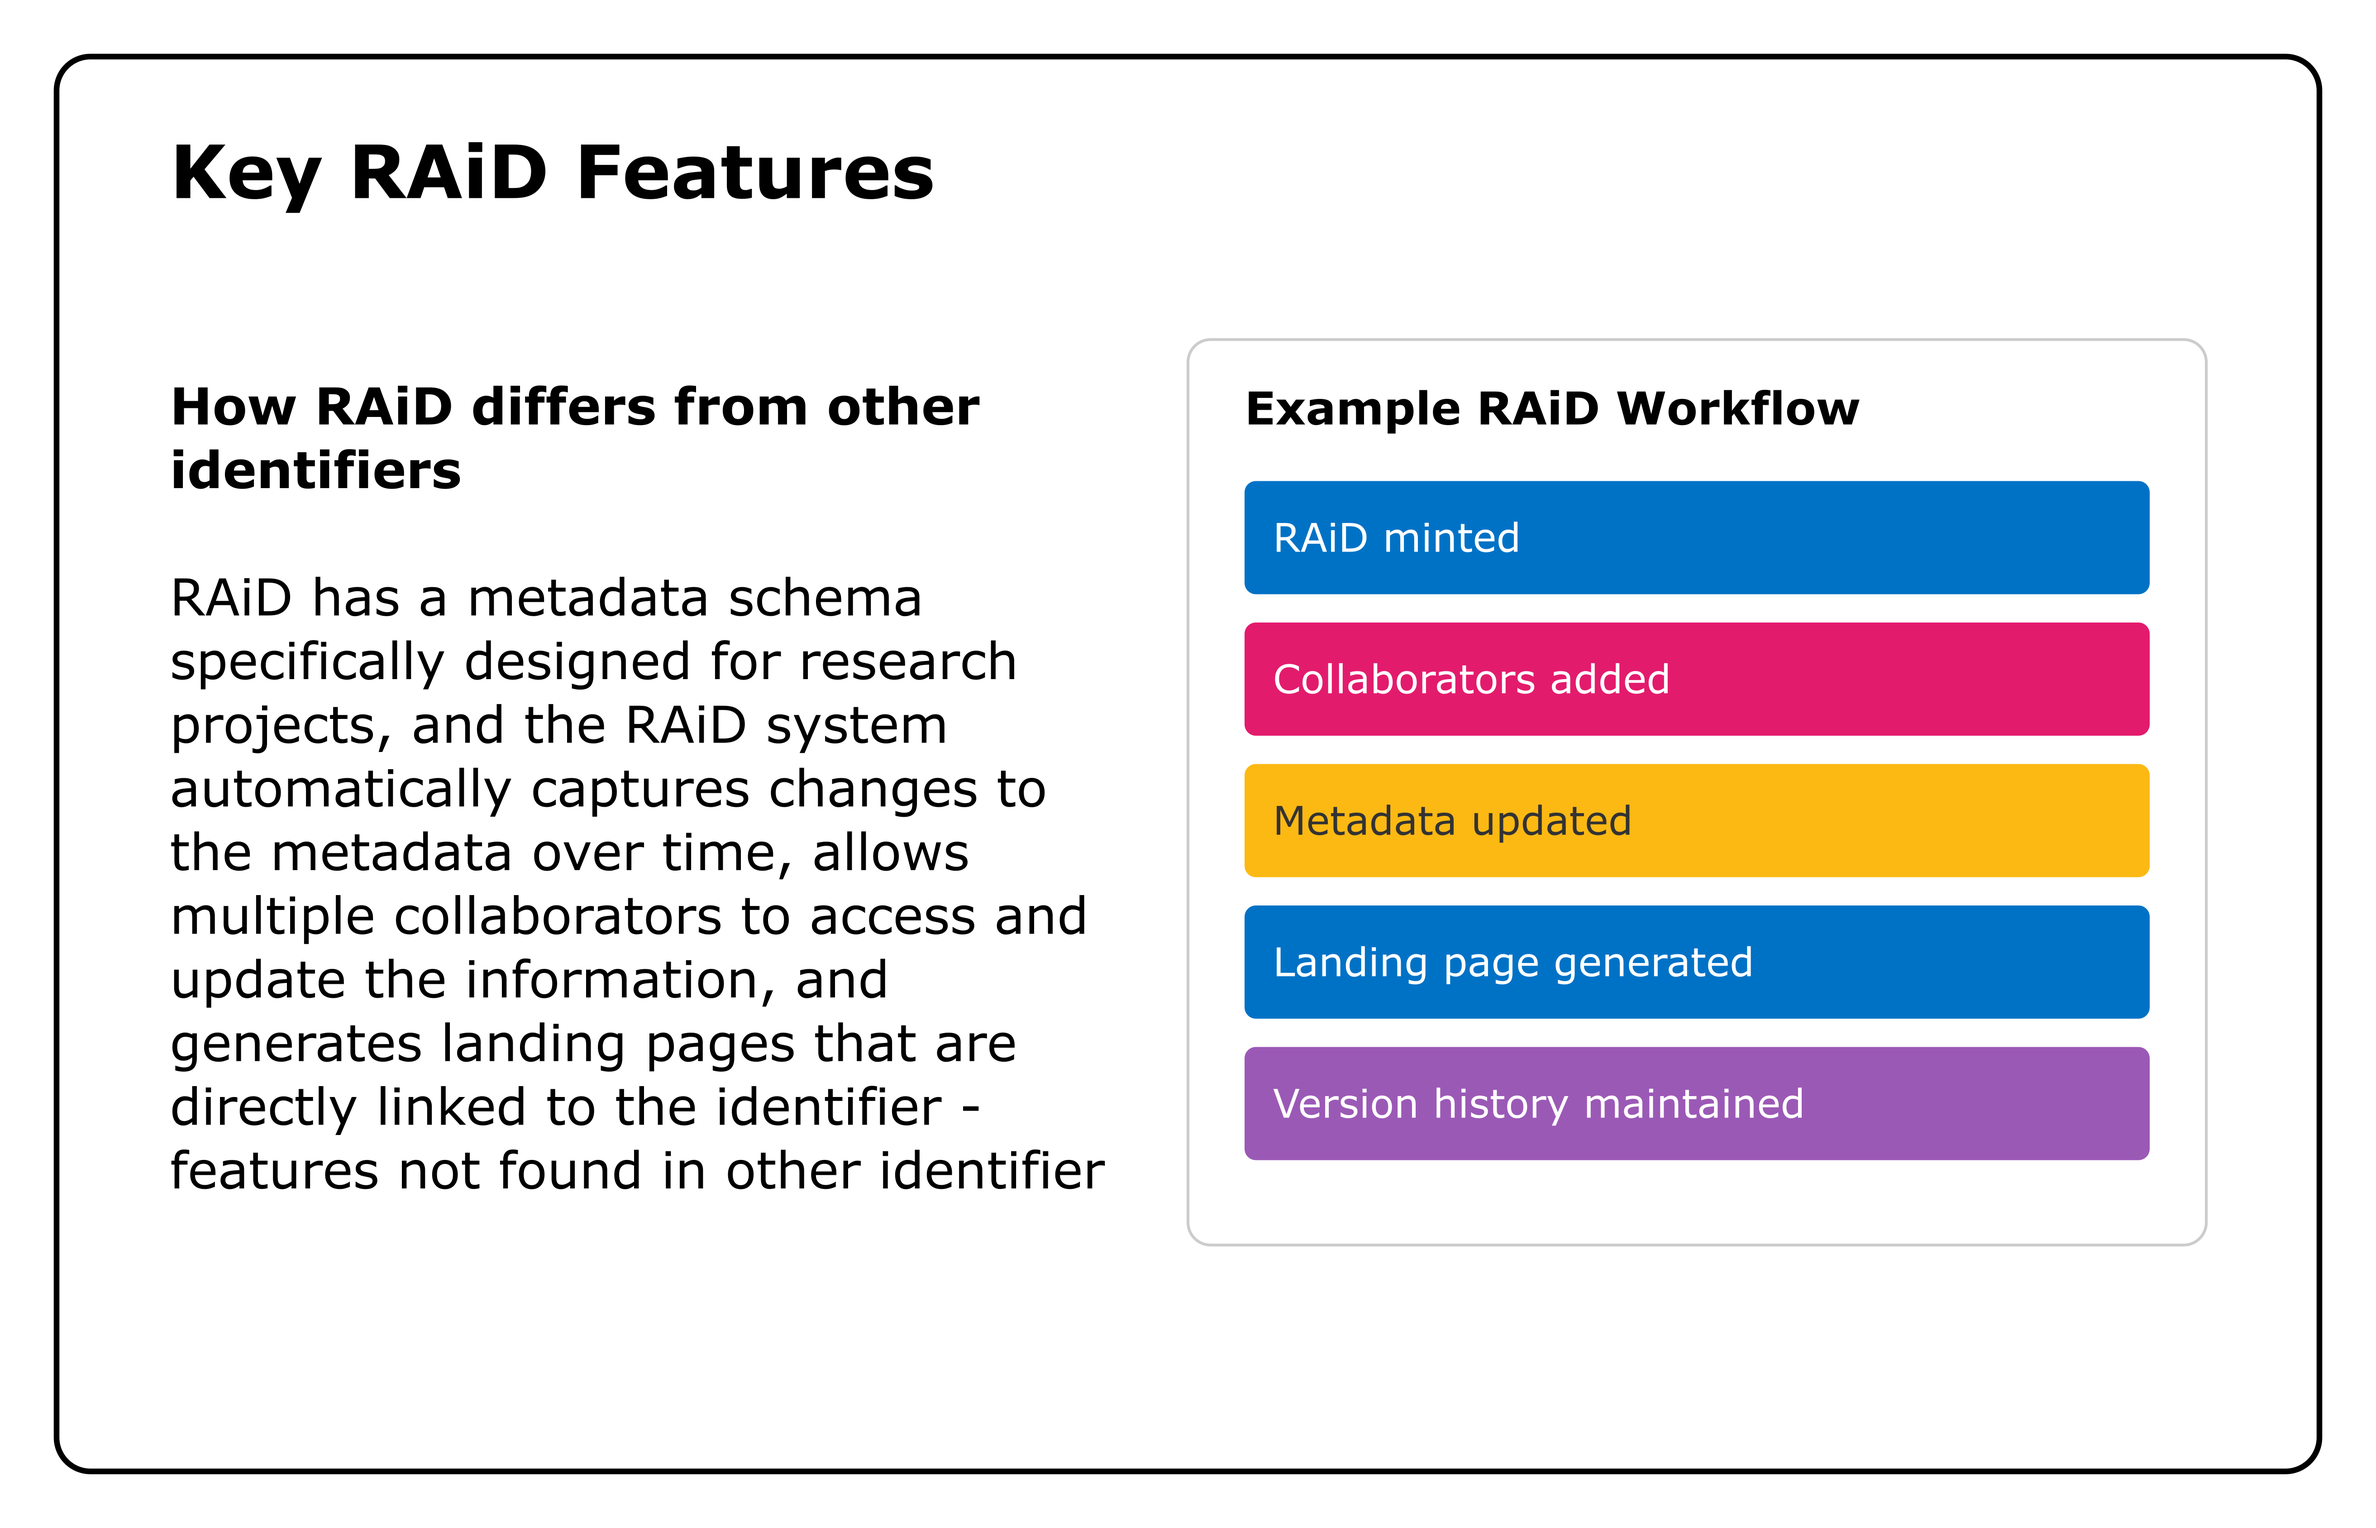
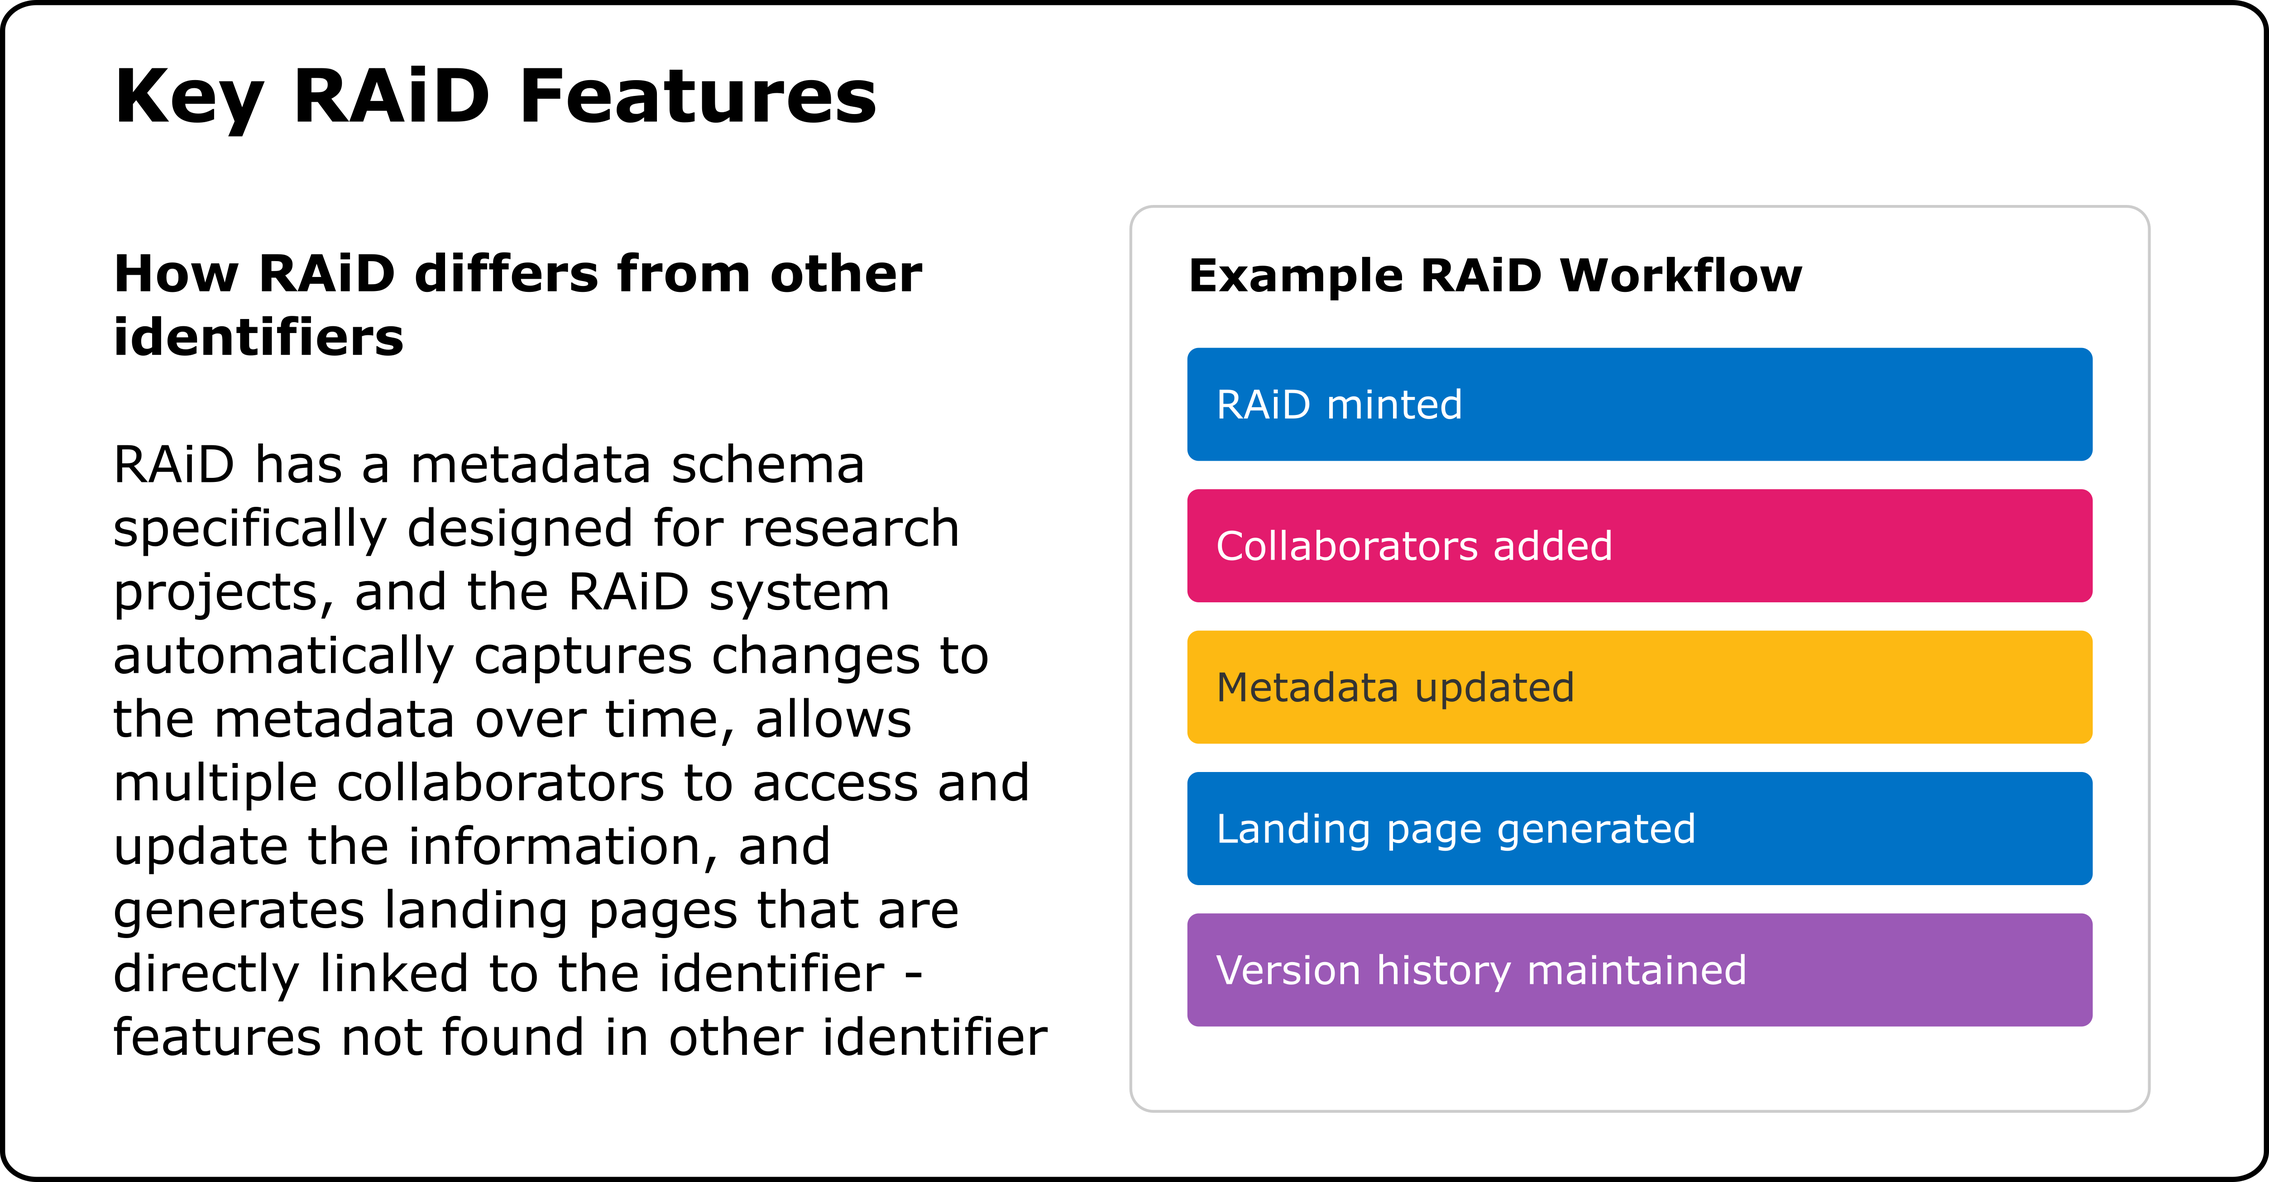
Change font to Arial as per ARDC guidelines

Changed region(s): [[0.0, 0.0, 1.0, 0.9923], [0.498, 0.2171, 0.9338, 0.8683], [0.0, 0.9613, 0.996, 1.0]]

diff --git a/main.tex b/main.tex
@@ -36,9 +36,11 @@
 \usepackage{framed}
 \usepackage{wrapfig}
 
-% \usepackage[showframe]{geometry}
 
-% \usepackage{fancyhdr}
+
+% \usepackage[showframe]{geometry} % having difficulty getting this to work
+
+% \usepackage{fancyhdr} % also having trouble with fancyhdr
 % https://www.overleaf.com/learn/latex/Headers_and_footers#Using_the_fancyhdr_package
 % \pagestyle{fancy}
 % \fancyhf{} % clear existing header/footer entries
@@ -54,6 +56,7 @@
 \usepackage{fontspec}
 \usepackage[english, bulgarian]{babel}
 \usepackage{polyglossia}
+\usepackage{scalefnt}
 
 \usepackage{microtype}
 \newfontfamily{\cyrillicfont}{NewCM10-Regular} 
@@ -78,25 +81,21 @@
 
 % Set margins
 % Use the geometry package for this, Shawn, this is why your footer doesn't work, I think.
-\setlength{\topmargin}{2cm}
+\setlength{\topmargin}{1.5cm}
 \setlength{\oddsidemargin}{2cm}
 \setlength{\evensidemargin}{2cm}
 \setlength{\textwidth}{0.95\paperwidth}
-\setlength{\textheight}{0.95\paperheight}
+\setlength{\textheight}{0.975\paperheight}
 \setlist[enumerate]{leftmargin=2em}
 
 % Increase first-line indent
 \setlength{\parindent}{2em}
 
-
-% \setmainfont{Gentium}
-
-% \usepackage{fontspec}
-\setmainfont{TeX Gyre Termes}
+\setmainfont{Arial}
 % https://tex.stackexchange.com/questions/639067/defining-a-fallback-font-for-all-missing-characters
 
-
 \begin{document}
+\scalefont{0.9}  % Scales all fonts to 90% of their original size
 
 %----------------------------------------------------------------------------------------
 % POSTER HEADER
@@ -106,20 +105,17 @@
 \begin{multicols}{2}
 
 \noindent
-% \noindent\begin{minipage}[t]{0.75\linewidth}
 \vspace{0pt}
 \Huge \color{ARDCBlue} \textbf{The Research Activity Identifier (RAiD):} \color{Black}\\[0.3cm]
-\LARGE\textit{System architecture, metadata schema, workflows, and examples}\\[1cm]
-\Large \textbf{Shawn Ross\textsuperscript{1}, Natasha Simons\textsuperscript{1}, Rob Leney\textsuperscript{1}, Steffen Weidenhaus\textsuperscript{1}}\\[0.5cm]
+\Large\textit{System architecture, metadata schema, workflows, and examples}\\[1cm]
+\large \textbf{Shawn Ross\textsuperscript{1}, Natasha Simons\textsuperscript{1}, Rob Leney\textsuperscript{1}, Steffen Weidenhaus\textsuperscript{1}}\\[0.5cm]
 \large \textsuperscript{1}Australian Research Data Commons
-% \end{minipage} 
-% \begin{minipage}[t]{0.25\linewidth}
-% \raggedleft
+
 \vfill\null
 \columnbreak
 \raggedleft
 \noindent\includegraphics[width=0.5\linewidth]{ARDC logo - RGB.png}
-% \end{minipage}
+
 \end{multicols}     
 
 \begin{multicols}{3}
@@ -176,7 +172,7 @@ Each RAiD Registration Agency runs an instance of the RAiD Service, federated in
   \centering
   \includegraphics[width=0.75\linewidth]{figures/20241023-raid-architecture-feature-boxes.png}
   \captionof{figure}{RAiD architecture details.}
-  \label{aws-architecture}
+  \label{reature-implementation}
 \end{Figure}
 
 
@@ -193,7 +189,7 @@ RAiD has been designed from the ground up as a dedicated research project identi
 
 \begin{Figure}
   \centering
-  \includegraphics[width=\linewidth]{figures/raid-key-features.png}
+  \includegraphics[width=0.9\linewidth]{figures/raid-key-features.png}
   \label{key-features}
 \end{Figure}
 
@@ -201,7 +197,7 @@ RAiD has been designed from the ground up as a dedicated research project identi
 % Acquiring RAiD
 %----------------------------------------------------------------------------------------
 
-\vspace{-2cm}
+\vspace{-1cm}
 
 \color{ARDCBlue}
 \section*{\LARGE How to get RAiD (ANZ)}
@@ -214,9 +210,9 @@ The first step to using RAiD is for your organisation to sign a short Service Ag
 
 \begin{Figure}
   \centering
-  \includegraphics[width=\linewidth]{figures/raid-workflow.png}
+  \includegraphics[width=0.9\linewidth]{figures/raid-workflow.png}
   \captionof{figure}{Getting started with RAiD in Australia and New Zealand.}
-  \label{aws-architecture}
+  \label{raid-workflow}
 \end{Figure}
 
 \vspace{1cm}
@@ -236,14 +232,15 @@ The first step to using RAiD is for your organisation to sign a short Service Ag
 %----------------------------------------------------------------------------------------
 % RAID Metadata schema
 %----------------------------------------------------------------------------------------
+
+\vspace{-1cm}
+
 \color{ARDCPink}
 \section*{\LARGE RAiD metadata}
 \color{DarkGrey}
 \large{
 \input schema
 }
-
-\vspace{6cm}
 
 %----------------------------------------------------------------------------------------
 % RAID Example
